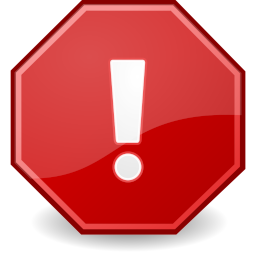
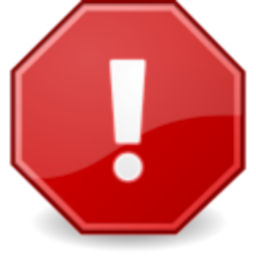
GStreamer Debug

diff --git a/src/mainwindow.cpp b/src/mainwindow.cpp
@@ -620,10 +620,13 @@ void QvkMainWindow::slot_GstreamerDebugLevelDialog( bool value )
         string += "2. Warning, the storage device can fill up to 2GB/min.!<br>";
         string += "3. Warning, your machine can slow down extremely!";
 
+        QPixmap pixmap( ":/pictures/status/warning.png" );
+        pixmap = pixmap.scaled( 64, 64, Qt::IgnoreAspectRatio, Qt::SmoothTransformation );
+
         QMessageBox msgBox( this );
         msgBox.setText( "<center><b>Warning</b></center><br>"  + string );
         msgBox.setWindowTitle( global::name + " " + global::version );
-        msgBox.setIcon( QMessageBox::Warning );
+        msgBox.setIconPixmap( pixmap );
         msgBox.setStandardButtons( QMessageBox::Ok | QMessageBox::Cancel );
         msgBox.setDefaultButton( QMessageBox::Cancel );
         int ret = msgBox.exec();
